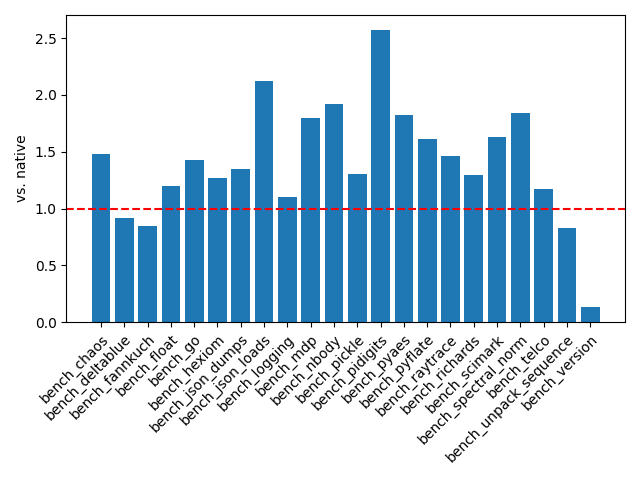
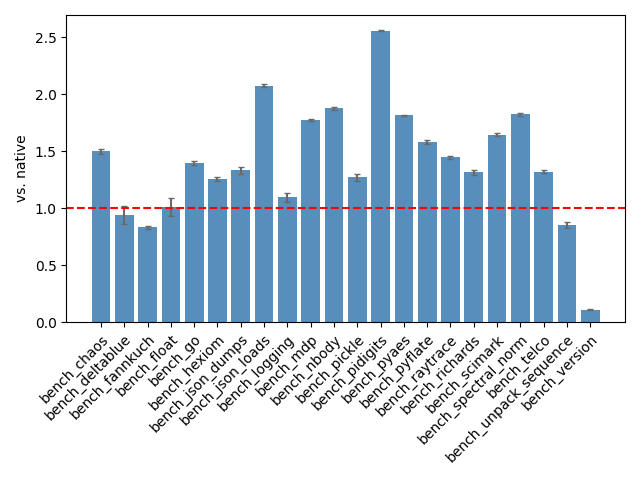
Latest plot

Changed region(s): [[0.125, 0.0625, 0.9375, 0.6875], [0.0625, 0.0625, 0.0938, 0.0938]]

diff --git a/tasks/plot.py b/tasks/plot.py
@@ -2,15 +2,8 @@ from invoke import task
 from collections import defaultdict
 import numpy as np
 import matplotlib.pyplot as plt
-import os
-from os import listdir, makedirs
-from os.path import join, exists
-from tasks.env import (
-    PROJ_ROOT,
-    FAASM_UPLOAD_HOST,
-    FAASM_UPLOAD_PORT,
-    NATIVE_BUILD_DIR,
-)
+from os.path import join
+from tasks.env import PROJ_ROOT
 
 NATIVE_RESULTS = join(PROJ_ROOT, "results", "pyperf_native_out.csv")
 FAASM_RESULTS = join(PROJ_ROOT, "results", "pyperf_out.csv")
@@ -50,7 +43,9 @@ def pyperf(ctx, headless=False):
 
     bench_names = list()
     exec_times = list()
+    exec_errs = list()
 
+    # Load data for all benchmarks
     for bench_name in native_data.keys():
         print("Found native bench {}".format(bench_name))
         if bench_name not in faasm_data:
@@ -60,15 +55,29 @@ def pyperf(ctx, headless=False):
         native_bench = native_data[bench_name]
         faasm_bench = faasm_data[bench_name]
 
-        native_exec = np.mean([n[0] for n in native_bench])
-        faasm_exec = np.mean([n[0] for n in faasm_bench])
+        # Calculate averages and stddevs
+        native_execs = [n[0] for n in native_bench]
+        faasm_execs = [n[0] for n in faasm_bench]
 
-        faasm_ratio = faasm_exec / native_exec
+        # Get ratios of Faasm runtime to native
+        faasm_ratios = list()
+        for f, n in zip(faasm_execs, native_execs):
+            faasm_ratios.append(f / n)
 
-        exec_times.append(faasm_ratio)
         bench_names.append(bench_name)
+        exec_times.append(np.mean(faasm_ratios))
+        exec_errs.append(np.std(faasm_ratios))
 
-    plt.bar(bench_names, exec_times)
+    # Plot the bar chart
+    plt.bar(
+        bench_names,
+        exec_times,
+        yerr=exec_errs,
+        alpha=0.9,
+        color="steelblue",
+        ecolor="dimgrey",
+        capsize=2,
+    )
 
     ax = plt.gca()
     ax.axhline(1.0, linestyle="--", color="red")
@@ -83,7 +92,7 @@ def pyperf(ctx, headless=False):
 
     plt.tight_layout()
 
-    if headless:
-        plt.savefig(PLOT_FILE, format="png")
-    else:
+    plt.savefig(PLOT_FILE, format="png")
+
+    if not headless:
         plt.show()
